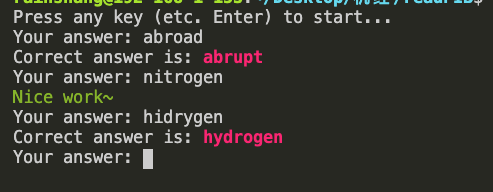
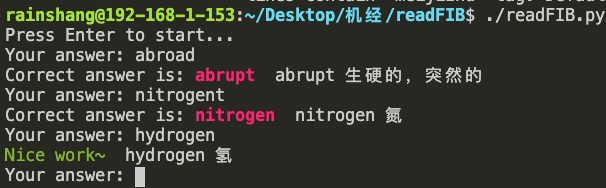
add more options

Changed region(s): [[0.0, 0.0, 1.0, 1.0], [0.4868, 0.5585, 0.6694, 0.6649]]

diff --git a/readFIB.py b/readFIB.py
@@ -1,4 +1,5 @@
 #!/usr/local/bin/python3
+import argparse
 import sys
 import pyttsx3
 
@@ -9,27 +10,58 @@ class PrintColors:
     RESET = '\033[0;0m'
 
 
+__UN_MASTERED_TAG__ = '</meijizhu>'
+
+
 def main():
-    if len(sys.argv) > 1:
-        fibFile = sys.argv[1]
-    else:
-        fibFile = '../FIB.md'
+    parser = argparse.ArgumentParser()
+    parser.add_argument(
+        '-f',
+        '--file',
+        dest='fib_file',
+        type=argparse.FileType('r'),
+        default='../FIB.md',
+        help=
+        'The dictation file you want to use. Default value is \'../FIB.md\'')
+    parser.add_argument(
+        '-s',
+        '--startline',
+        dest='start_line',
+        type=int,
+        default=0,
+        help='The line you want to start from. Default value is 1')
+    parser.add_argument(
+        '-o',
+        '--onlyum',
+        dest='only_unmastered',
+        action='store_true',
+        help=
+        'Only dictate the words you haven\'t mastered, which lines contain <meijizhu> tag. Default ignored.'
+    )
+    args = parser.parse_args()
+    args.start_line -= 1
+
     engine = pyttsx3.init()
-    input('Press any key (etc. Enter) to start...')
-    for line in open(fibFile, 'r').readlines():
-        if line and line[0].isalpha():
-            word = line.split(' ')[0]
-            engine.say(word)
-            engine.runAndWait()
-            answer = input('Your answer: ')
-            if word == answer:
-                print(
-                    f'{PrintColors.GREEN}Nice work~{PrintColors.RESET}  {line}',
-                    end='')
-            else:
-                print(
-                    f'Correct answer is: {PrintColors.RED}{word}{PrintColors.RESET}  {line}',
-                    end='')
+    input('Press Enter to start...')
+    for index, line in enumerate(args.fib_file.readlines()):
+        if index >= args.start_line:
+            if line and line[0].isalpha():
+                if not args.only_unmastered or __UN_MASTERED_TAG__ in line:
+                    __process_line(line, engine)
+
+
+def __process_line(line, engine):
+    word = line.split(' ')[0]
+    engine.say(word)
+    engine.runAndWait()
+    answer = input('Your answer: ')
+    if word == answer:
+        print(f'{PrintColors.GREEN}Nice work~{PrintColors.RESET}  {line}',
+              end='')
+    else:
+        print(
+            f'Correct answer is: {PrintColors.RED}{word}{PrintColors.RESET}  {line}',
+            end='')
 
 
 if __name__ == "__main__":

diff --git a/README.md b/README.md
@@ -15,8 +15,14 @@ The `FIB.md` should be like this,
 
 all the non-word lines like the `<span>` will be ignored.
 
-Then press any key to begin your dictation. **Notice:** please enter your answer after the `Your answer: ` shows. I know it's slow, limited by the text-to-speech lib though.
+Then press `Enter` to begin your dictation. *Notice:* Recommend to enter your answer after the `Your answer: ` shows. I know it's slow, limited by the text-to-speech lib though.
 
 ![](img/2.png)
 
-Again, fcking good luck!
+Moreover, it supports only reviewing the words you haven't mastered using the option `-o`, and the words are identified by tag `<meijizhu>`.
+
+![](img/3.png)
+
+I also provide the option `-s` to specify the starting line. Use `-h` or `--help` to see the detail.
+
+Again, enjoy and have fcking good luck!
